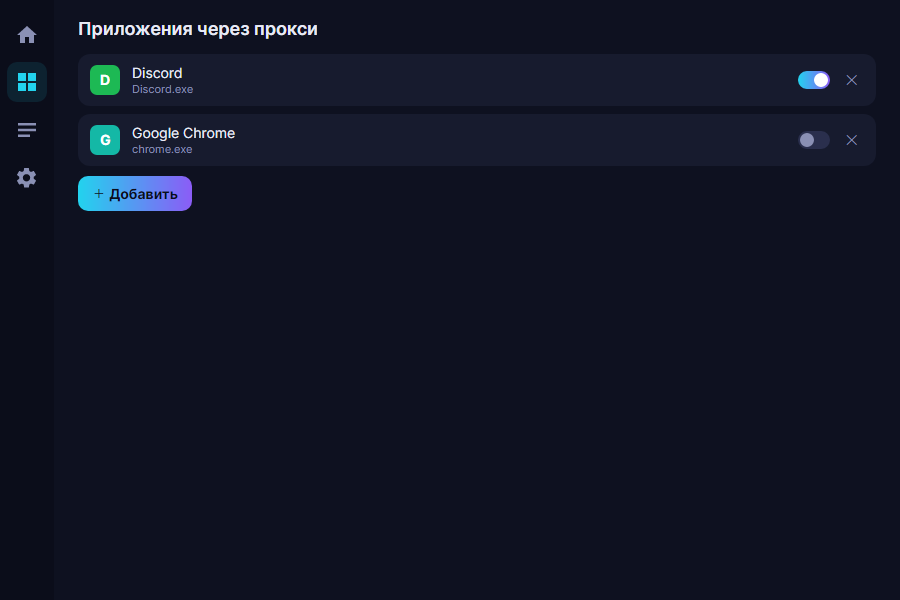
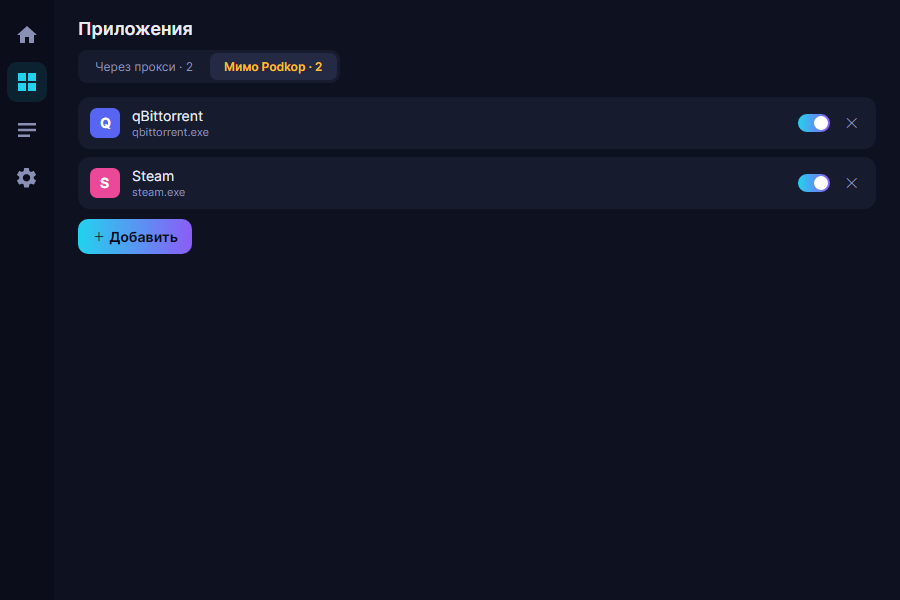
README: bypass section with ITDog FAQ link; version 2.1.0

diff --git a/README.md b/README.md
@@ -1,6 +1,6 @@
 # ViviTune
 
-Пускает трафик **только выбранных программ** Windows через SOCKS5-прокси. Например, через роутер с [Podkop](https://github.com/itdoginfo/podkop). Остальной трафик идёт напрямую, как обычно.
+Пускает трафик **только выбранных программ** Windows через SOCKS5-прокси. Например, через роутер с [Podkop](https://github.com/itdoginfo/podkop). Остальной трафик идёт напрямую, как обычно. Есть и второй список, «Мимо Podkop»: его программы идут в отдельный порт роутера, откуда они гарантированно выходят мимо VPN Podkop (см. [ниже](#мимо-podkop)).
 
 Типичный сценарий: Discord (голос и стримы) и пара игр ходят через роутер, а браузер, Steam и всё прочее — напрямую.
 
@@ -19,7 +19,7 @@ ViviTune запускает [sing-box](https://github.com/SagerNet/sing-box) в 
 
 ## Установка
 
-1. Скачайте `ViviTune-2.0.0-win-x64.zip` со страницы [Releases](../../releases/latest).
+1. Скачайте `ViviTune-2.1.0-win-x64.zip` со страницы [Releases](../../releases/latest).
 2. Распакуйте в отдельную папку, куда есть права на запись (например, `C:\Tools\ViviTune`, но не `Program Files`): настройки хранятся в `settings.json` рядом с программой.
 3. `sing-box.exe` должен лежать рядом с `ViviTune.exe`.
 4. Запустите `ViviTune.exe` и подтвердите запрос прав администратора.
@@ -27,11 +27,13 @@ ViviTune запускает [sing-box](https://github.com/SagerNet/sing-box) в 
 
 ## Использование
 
-1. **Настройки:** укажите IP-адрес и порт SOCKS5-прокси (для роутера с Podkop это LAN-адрес роутера, например `192.168.1.1`, и порт Mixed-прокси). Изменения сохраняются сами. Адрес можно менять только в отключённом состоянии.
-2. **Приложения:** «＋ Добавить» и выберите программу из запущенных. Программы без окна собраны в свёрнутом разделе «Фоновые». Можно указать файл через «Выбрать .exe вручную…». Переключатель справа временно выключает приложение без удаления, крестик удаляет его из списка.
+1. **Настройки**, блок «Прокси SOCKS5»: укажите «IP-адрес роутера» (LAN-адрес роутера с Podkop, например `192.168.1.1`) и «Прокси» — порт Mixed-прокси. Поле «Мимо Podkop» — порт второго Mixed-прокси, нужно только если пользуетесь списком «Мимо Podkop» (см. [ниже](#мимо-podkop)). Изменения сохраняются сами. Адрес можно менять только в отключённом состоянии.
+2. **Приложения:** две вкладки, «Через прокси» и «Мимо Podkop» (число рядом с названием — сколько в ней программ). Программа может быть только в одном списке: если добавить её в другой, она переедет туда. На нужной вкладке нажмите «＋ Добавить» и выберите программу из запущенных. Программы без окна собраны в свёрнутом разделе «Фоновые». Можно указать файл через «Выбрать .exe вручную…». Переключатель справа временно выключает приложение без удаления, крестик удаляет его из списка.
 3. **Главная:** нажмите кнопку питания. ViviTune проверит прокси и подключится. Внизу видна скорость и объём трафика, который идёт через прокси.
    - `TCP + UDP`: всё работает, включая голос и игры.
    - `только TCP`: прокси не пропускает UDP, поэтому голосовая связь и игры могут не работать.
+   - Строка вида `00:42:17 · TCP + UDP · 2 через прокси · 2 мимо Podkop` показывает, сколько программ идёт через каждый список.
+   - Предупреждения ViviTune показывает жёлтым цветом под статусом.
 4. **Перезапустите выбранные программы** после подключения: соединения, открытые до него, остаются прямыми.
 5. Список приложений можно менять и при включённом прокси: ViviTune сам перезапустит sing-box.
 6. Крестик окна сворачивает ViviTune в трей. В меню трея есть «Открыть», «Подключить»/«Отключить» и «Выход».
@@ -68,6 +70,28 @@ uci commit podkop
 - Пароля у Mixed-прокси нет: им может пользоваться любое устройство в вашей локальной сети.
 - В стандартной настройке OpenWrt входящие соединения из LAN разрешены. Если вы меняли правила firewall для зоны `lan`, откройте этот порт.
 - Инструкция проверена по исходникам Podkop 0.7.24. В старых версиях этой опции может не быть: обновите Podkop.
+
+## Мимо Podkop
+
+Зачем. Podkop может завернуть в VPN программу, чей домен или IP есть в его списках: торренты, банки, игры с античитом. Список «Мимо Podkop» это исключает. Его программы идут в отдельный Mixed-прокси на роутере, который выпускает трафик в обход Podkop, через физический WAN-интерфейс.
+
+### Как настроить секцию в Podkop
+
+Способ описан в FAQ ITDog: [Как отправить торренты в обход Podkop](https://podkop.net/docs/faq/#kak-otpravit-torrenty-v-obhod-podkop). Коротко:
+
+1. В Podkop (**Службы → Podkop → Секции**) создайте новую секцию с типом подключения **VPN**.
+2. В поле сетевого интерфейса выберите **custom** и впишите имя физического WAN-интерфейса. Узнать его можно на роутере командой `route -n`, это столбец **Iface** у маршрута по умолчанию. Надпись «Absent Interface» рядом можно игнорировать.
+3. Отметьте **Включить смешанный прокси** и укажите свободный порт. Занятые порты видны по команде `netstat -tanp | grep LISTEN`.
+4. Нажмите **Сохранить и применить**.
+
+### В ViviTune
+
+1. «Настройки» → поле «Мимо Podkop»: введите порт из предыдущего шага.
+2. «Приложения» → вкладка «Мимо Podkop»: добавьте нужные программы.
+
+### Если порт не отвечает
+
+Если порт «Мимо Podkop» не отвечает при подключении или перезапуске, программы этого списка идут обычным путём, то есть через роутер и Podkop, а ViviTune показывает предупреждение. То же самое, если порт не указан, а в списке есть программы. Если ни у одного списка с программами нет работающего порта, ViviTune покажет ошибку и не подключится.
 
 ## Сборка из исходников
 
